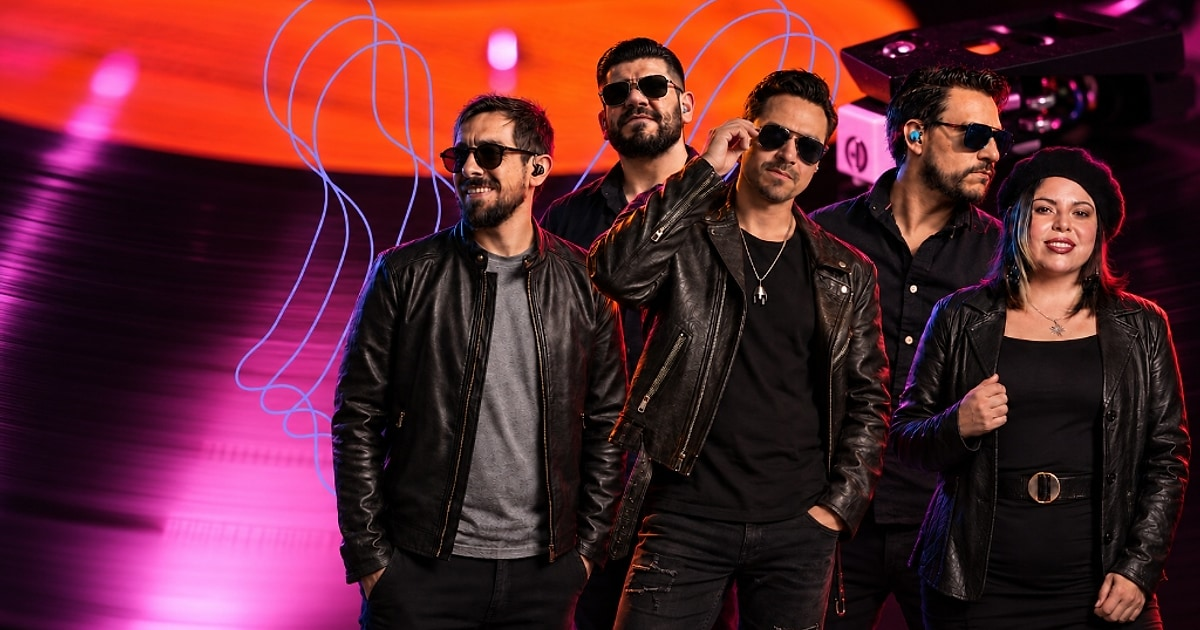
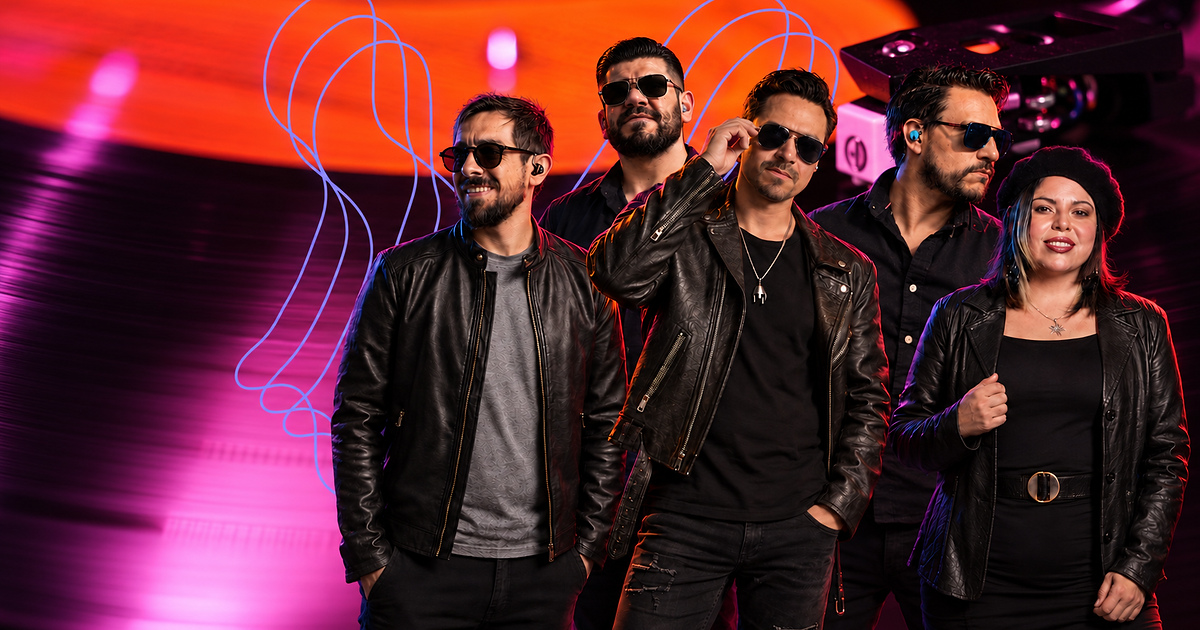
fix(hero): use uncompressed lossless master PNG and 4:4:4 chroma assets for ultra-sharp hero and og

diff --git a/src/app/(public)/page.tsx b/src/app/(public)/page.tsx
@@ -108,7 +108,7 @@ export default async function HomePage() {
         {/* Background Image Container - Desktop (>=lg) */}
         <div className="absolute right-0 top-0 bottom-0 w-full lg:w-[62%] xl:w-[66%] 2xl:w-[70%] z-0 select-none pointer-events-none animate-hero-bg hidden lg:block">
           <Image
-            src="/images/vendetta-web-assets/vendetta-hero.jpg"
+            src="/images/vendetta-web-assets/vendetta-hero.png"
             alt="Banda de pop y rock en vivo Vendetta para eventos sociales y bodas"
             fill
             priority
@@ -143,7 +143,7 @@ export default async function HomePage() {
             {/* Dedicated mobile photo: HD framing with ALL 5 band members completely visible */}
             <div className="w-full relative my-5 rounded-3xl overflow-hidden aspect-[16/9] border border-white/20 shadow-2xl lg:hidden animate-hero-bg backdrop-blur-xl">
               <Image
-                src="/images/vendetta-web-assets/vendetta-hero-mobile.jpg"
+                src="/images/vendetta-web-assets/vendetta-hero-mobile.png"
                 alt="Banda de pop y rock en vivo Vendetta para eventos sociales y bodas"
                 fill
                 priority
